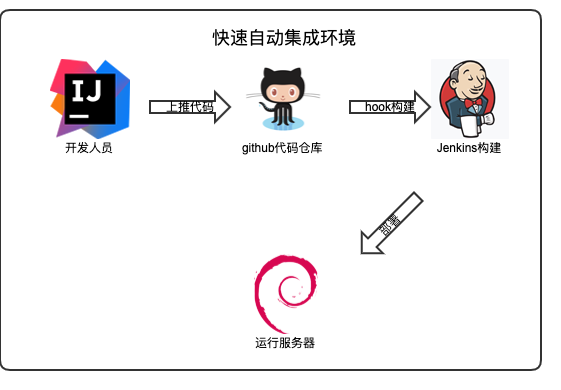
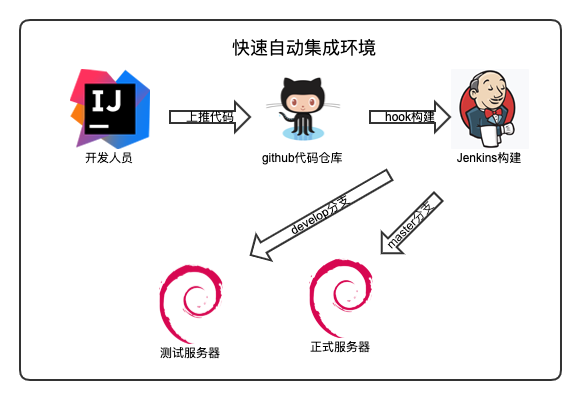
快速组建项目持续集成环境-1

diff --git a/_posts/2019-07-22-idea-github-jenkins-debian.md b/_posts/2019-07-22-idea-github-jenkins-debian.md
@@ -1,0 +1,13 @@
+---
+layout: post
+title:  "快速组建程序集成环境"
+date:   2019-07-19 22:59:06
+categories: idea github jenkins debian CI
+---
+2014时在这里就写过一篇关于持续集成的文章[Jenkins 使用教程](/java/jenkins/2014/11/14/jenkins-use-tutorial.html)当时的Jenkins还是1.x版本，没想到5年过去了都9102年了，今天和朋友聊天还有团队在使用开发人员机器构建项目，人工ftp传到服务器上人工部署，累吗？也不安全啊。
+
+最近在做一个小的项目使用SpringBoot框架搭建开发真的简单，但人工部署了三次服务器就觉得麻烦了，就在家里的树莓派上装了个Jenkins帮我来做自动部署，虽然派的CPU弱了点但毕竟省电。现在的整体框架环境是IDEA负责开发提交代码，github只是一个仓库负责存储代码，在有PUSH提交时触发Jenkins开始做构建动作。构建完成后按分支名字【develop分支上测试服，master分支上正式服】上不同的服务。并重启spring jar包。完成整个部署过程。
+
+![flow](http://blog.guohai.org/doc-pic/2019-07/flow_chart.png)
+
+## 创建Spring Boot项目，并生成Jenkinsfile文件
